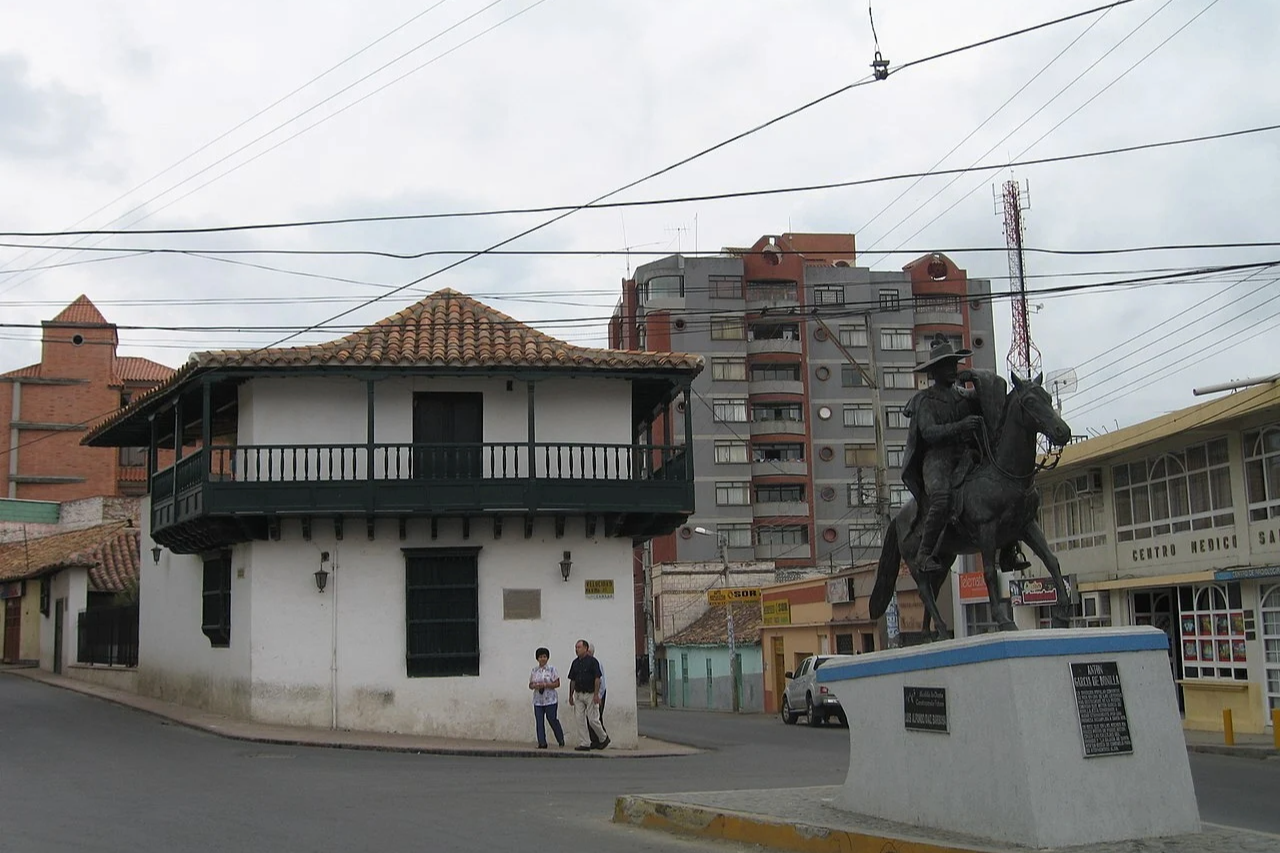
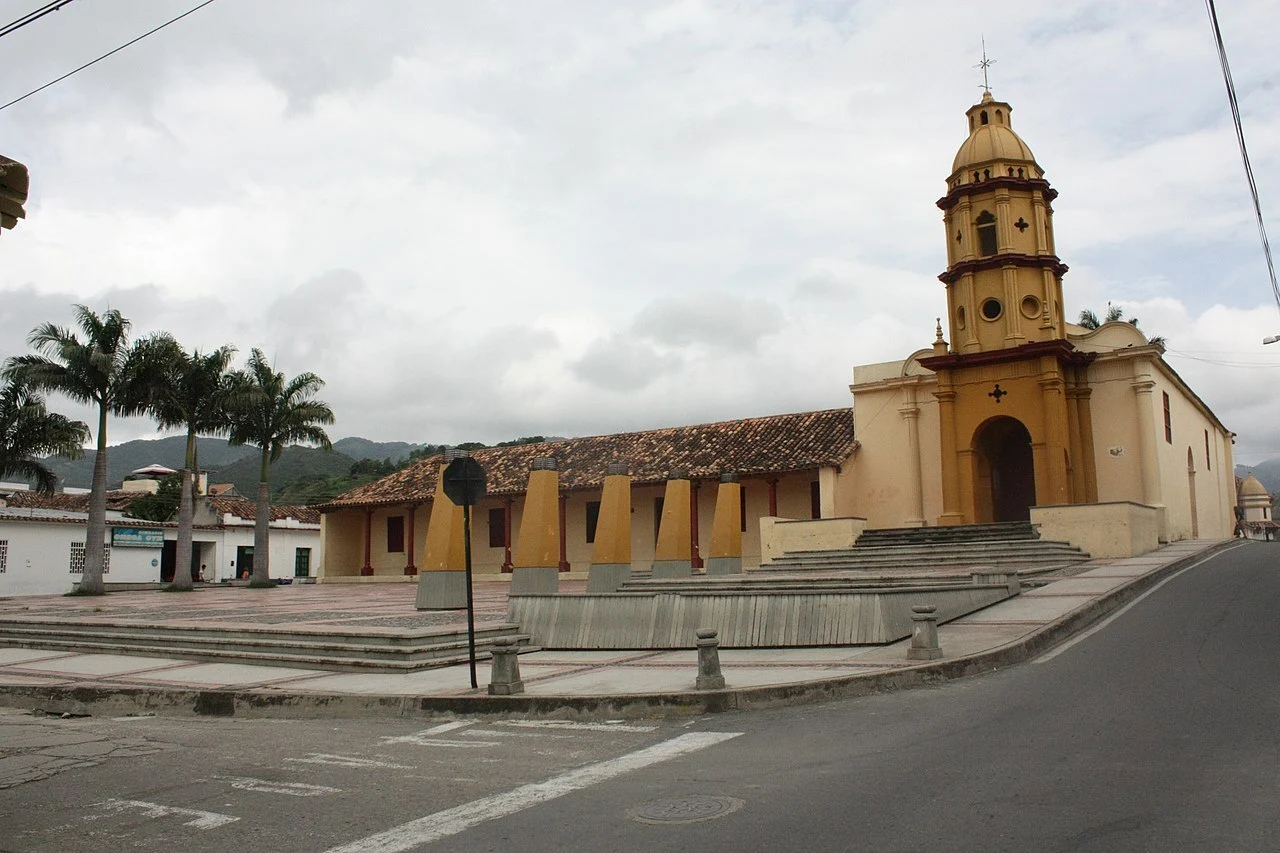
Se modifica la linea del tiempo

diff --git a/src/components/Timeline.tsx b/src/components/Timeline.tsx
@@ -56,7 +56,7 @@ const Timeline: React.FC = () => {
                         </li>
                         <li>
                             <hr />
-                            <div className="timeline-end">0.9 Km</div>
+                            <div className="timeline-end">1.2 Km</div>
                             <div className="timeline-middle">
                                 <svg
                                     xmlns="http://www.w3.org/2000/svg"
@@ -71,9 +71,9 @@ const Timeline: React.FC = () => {
                             </div>
                             <div className="timeline-start timeline-box">
                                 <div className='flex flex-col items-center justify-center gap-2'>
-                                    <h3 className='text-center'>Columna de la Libertad de los Esclavos</h3>
+                                    <h3 className='text-center'>Museo Antón García de Bonilla</h3>
                                     <a
-                                        href="https://maps.app.goo.gl/mrS6XYAfmoH9yjCK6"
+                                        href="https://maps.app.goo.gl/1Y8eamtbm516TYMS6"
                                         target="_blank"
                                         rel="noopener noreferrer"
                                     >
@@ -81,7 +81,7 @@ const Timeline: React.FC = () => {
                                             <img
                                                 className="rounded-none"
                                                 src={Tourism2}
-                                                alt="Catedral de Santa Ana"
+                                                alt="Museo Antón García de Bonilla"
                                                 width={200}
                                                 height={180}
                                             />
@@ -93,7 +93,7 @@ const Timeline: React.FC = () => {
                         </li>
                         <li>
                             <hr />
-                            <div className="timeline-start">1.2 Km</div>
+                            <div className="timeline-start">1.4 Km</div>
                             <div className="timeline-middle">
                                 <svg
                                     xmlns="http://www.w3.org/2000/svg"
@@ -108,9 +108,9 @@ const Timeline: React.FC = () => {
                             </div>
                             <div className="timeline-end timeline-box">
                                 <div className='flex flex-col items-center justify-center gap-2'>
-                                    <h3 className='text-center'>Museo Antón García de Bonilla</h3>
+                                    <h3 className='text-center'>Complejo Historico Gran Convención</h3>
                                     <a
-                                        href="https://maps.app.goo.gl/mev73wZr2eSdrqnw7"
+                                        href="https://maps.app.goo.gl/hG3Q72R2STvLEyMb6"
                                         target="_blank"
                                         rel="noopener noreferrer"
                                     >
@@ -118,7 +118,7 @@ const Timeline: React.FC = () => {
                                             <img
                                                 className="rounded-none"
                                                 src={Tourism3}
-                                                alt="Catedral de Santa Ana"
+                                                alt="Complejo Historico Gran Convención"
                                                 width={200}
                                                 height={180}
                                             />
@@ -129,7 +129,7 @@ const Timeline: React.FC = () => {
                         </li>
                         <li>
                             <hr />
-                            <div className="timeline-end">1.4 Km</div>
+                            <div className="timeline-end">6.2 Km</div>
                             <div className="timeline-middle">
                                 <svg
                                     xmlns="http://www.w3.org/2000/svg"
@@ -144,9 +144,9 @@ const Timeline: React.FC = () => {
                             </div>
                             <div className="timeline-start timeline-box">
                                 <div className='flex flex-col items-center justify-center gap-2'>
-                                    <h3 className='text-center'>Complejo Histórico la Gran Convención</h3>
+                                    <h3 className='text-center'>Los Estoraques</h3>
                                     <a
-                                        href="https://maps.app.goo.gl/qqbVpienemF2LogZ8"
+                                        href="https://maps.app.goo.gl/rUWqCwhBHHWW7H8eA"
                                         target="_blank"
                                         rel="noopener noreferrer"
                                     >
@@ -154,7 +154,7 @@ const Timeline: React.FC = () => {
                                             <img
                                                 className="rounded-none"
                                                 src={Tourism4}
-                                                alt="Catedral de Santa Ana"
+                                                alt="Los Estoraques"
                                                 width={200}
                                                 height={180}
                                             />
@@ -165,7 +165,7 @@ const Timeline: React.FC = () => {
                         </li>
                         <li>
                             <hr />
-                            <div className="timeline-start">8.0 Km</div>
+                            <div className="timeline-start">7.9 Km</div>
                             <div className="timeline-middle">
                                 <svg
                                     xmlns="http://www.w3.org/2000/svg"
@@ -190,7 +190,7 @@ const Timeline: React.FC = () => {
                                             <img
                                                 className="rounded-none"
                                                 src={Tourism5}
-                                                alt="Catedral de Santa Ana"
+                                                alt="Santuario de la virgen de Torcoroma"
                                                 width={200}
                                                 height={180}
                                             />

diff --git a/src/components/About.tsx b/src/components/About.tsx
@@ -1,6 +1,9 @@
 import React from 'react';
 import Hotel from '../assets/Images/Hotel-About-Us.webp';
 
+import { FaWhatsapp } from 'react-icons/fa';
+import { IoIosMail } from "react-icons/io";
+
 const About: React.FC = () => {
     return (
         <div className='px-[16px]'>
@@ -17,13 +20,51 @@ const About: React.FC = () => {
                         Desde nuestras habitaciones cuidadosamente ambientadas hasta cada detalle en los espacios comunes, buscamos ofrecer a nuestros huéspedes una experiencia única que combine comodidad, historia y hospitalidad.
                     </p>
                     <a
-                        href="https://wa.me/573144822770?text=Hola%2C%20quisiera%20más%20información%20sobre%20el%20Hotel%20Santa%20Elena"
-                        target="_blank"
-                        rel="noopener noreferrer"
+                        href="#"
+                        onClick={(e) => {
+                            e.preventDefault();
+                            (document.getElementById('my_modal_3') as HTMLDialogElement)?.showModal();
+                        }}
                         className="btn lg:w-60 border rounded-none border-[#4A3530] text-[#4A3530] bg-transparent hover:bg-[#4A3530] hover:text-white transition duration-300 text-sm mt-12"
                     >
                         QUIERO HOSPEDARME
                     </a>
+
+                    <dialog id="my_modal_3" className="modal">
+                        <div className="modal-box">
+                            <form method="dialog">
+                                <button className="btn btn-sm btn-circle btn-ghost absolute right-2 top-2 text-black">✕</button>
+                            </form>
+                            <div className="flex w-full flex-col p-4 justify-center gap-4">
+                                <h1 className='text-center text-black text-lg mb-2'>¿Cómo prefieres reservar?</h1>
+                                <a href="https://wa.me/573144822770" target='blank'>
+                                    <div className="bg-base-300 rounded-box h-20 px-4 flex items-center justify-center gap-2 text-[#4A3530] text-xl font-medium">
+                                        <FaWhatsapp />
+                                        <h1>+57 314 4822770</h1>
+                                    </div>
+                                </a>
+                                <a href="https://wa.me/573144822770" target='blank'>
+                                    <div className="bg-base-300 rounded-box h-20 px-4 flex items-center justify-center gap-2 text-[#4A3530] text-xl font-medium">
+                                        <FaWhatsapp />
+                                        <h1>+57 301 7972846</h1>
+                                    </div>
+                                </a>
+                                <div className="divider">O</div>
+                                <a href="mailto:Santaelenaocana@gmail.com?subject=Reserva%20Hotel%20Santa%20Elena">
+                                    <div className="bg-base-300 rounded-box h-20 px-4 flex items-center justify-center gap-2 text-[#4A3530] text-xl font-medium">
+                                        <IoIosMail />
+                                        <h1>Santaelenaocana@gmail.com</h1>
+                                    </div>
+                                </a>
+                                <p className="text-sm text-center mt-2 text-[#4A3530]">
+                                    Si no tienes una app configurada, puedes enviar un correo directamente desde <a href="https://mail.google.com/mail/?view=cm&fs=1&to=Santaelenaocana@gmail.com&su=Reserva%20Hotel%20Santa%20Elena" target="_blank" rel="noopener noreferrer" className="underline text-[#4A3530] hover:text-[#69473e]">Gmail</a>.
+                                </p>
+                            </div>
+                        </div>
+                        <form method="dialog" className="modal-backdrop">
+                            <button>close</button>
+                        </form>
+                    </dialog>
                 </div>
 
                 {/* Imagen */}

diff --git a/src/components/Hero.tsx b/src/components/Hero.tsx
@@ -1,6 +1,9 @@
 import React from 'react';
 import heroImage from '../assets/Images/Hero_Image.webp';
 
+import { FaWhatsapp } from 'react-icons/fa';
+import { IoIosMail } from "react-icons/io";
+
 const Hero: React.FC = () => {
     return (
         <div
@@ -19,13 +22,51 @@ const Hero: React.FC = () => {
                     </p>
 
                     <a
-                        href="https://wa.me/573144822770"
-                        target="_blank"
-                        rel="noopener noreferrer"
+                        href="#"
+                        onClick={(e) => {
+                            e.preventDefault();
+                            (document.getElementById('my_modal_3') as HTMLDialogElement)?.showModal();
+                        }}
                         className="btn w-full shadow-none lg:w-60 border-none rounded-none text-[#4A3530] bg-[#ECE6D1] hover:bg-[#4A3530] hover:text-white transition duration-300 text-sm mt-12"
                     >
                         RESERVAR
                     </a>
+
+                    <dialog id="my_modal_3" className="modal">
+                        <div className="modal-box">
+                            <form method="dialog">
+                                <button className="btn btn-sm btn-circle btn-ghost absolute right-2 top-2 text-black">✕</button>
+                            </form>
+                            <div className="flex w-full flex-col p-4 justify-center gap-4">
+                                <h1 className='text-center text-black text-lg mb-2'>¿Cómo prefieres reservar?</h1>
+                                <a href="https://wa.me/573144822770" target='blank'>
+                                    <div className="bg-base-300 rounded-box h-20 px-4 flex items-center justify-center gap-2 text-[#4A3530] text-xl font-medium">
+                                        <FaWhatsapp />
+                                        <h1>+57 314 4822770</h1>
+                                    </div>
+                                </a>
+                                <a href="https://wa.me/573144822770" target='blank'>
+                                    <div className="bg-base-300 rounded-box h-20 px-4 flex items-center justify-center gap-2 text-[#4A3530] text-xl font-medium">
+                                        <FaWhatsapp />
+                                        <h1>+57 301 7972846</h1>
+                                    </div>
+                                </a>
+                                <div className="divider">O</div>
+                                <a href="mailto:Santaelenaocana@gmail.com?subject=Reserva%20Hotel%20Santa%20Elena">
+                                    <div className="bg-base-300 rounded-box h-20 px-4 flex items-center justify-center gap-2 text-[#4A3530] text-xl font-medium">
+                                        <IoIosMail />
+                                        <h1>Santaelenaocana@gmail.com</h1>
+                                    </div>
+                                </a>
+                                <p className="text-sm text-center mt-2 text-[#4A3530]">
+                                    Si no tienes una app configurada, puedes enviar un correo directamente desde <a href="https://mail.google.com/mail/?view=cm&fs=1&to=Santaelenaocana@gmail.com&su=Reserva%20Hotel%20Santa%20Elena" target="_blank" rel="noopener noreferrer" className="underline text-[#4A3530] hover:text-[#69473e]">Gmail</a>.
+                                </p>
+                            </div>
+                        </div>
+                        <form method="dialog" className="modal-backdrop">
+                            <button>close</button>
+                        </form>
+                    </dialog>
                 </div>
             </div>
         </div>

diff --git a/src/index.css b/src/index.css
@@ -19,4 +19,5 @@ body {
 
 html {
     scroll-behavior: smooth;
+    overflow-y: scroll;
   }
